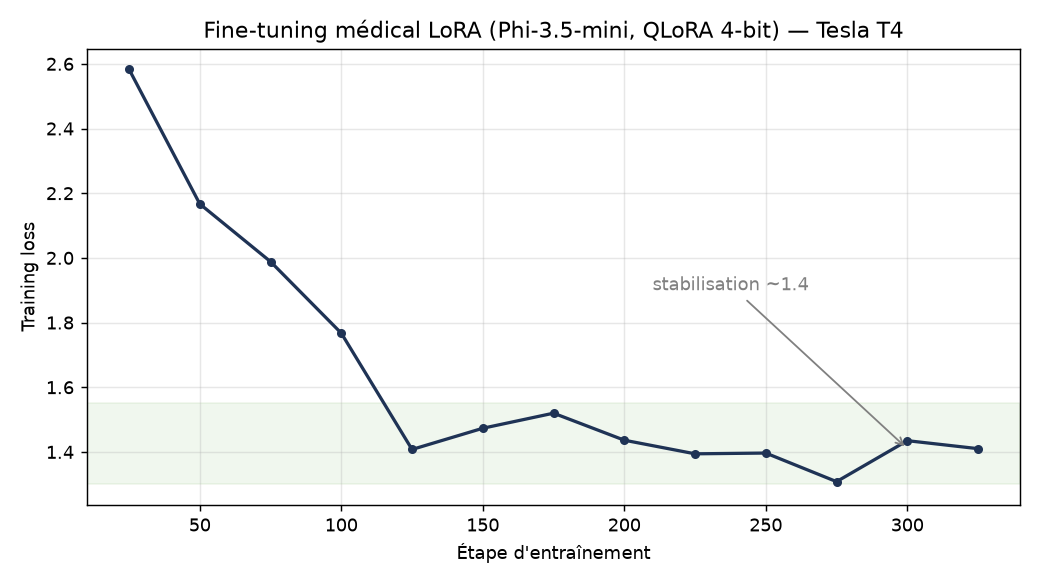
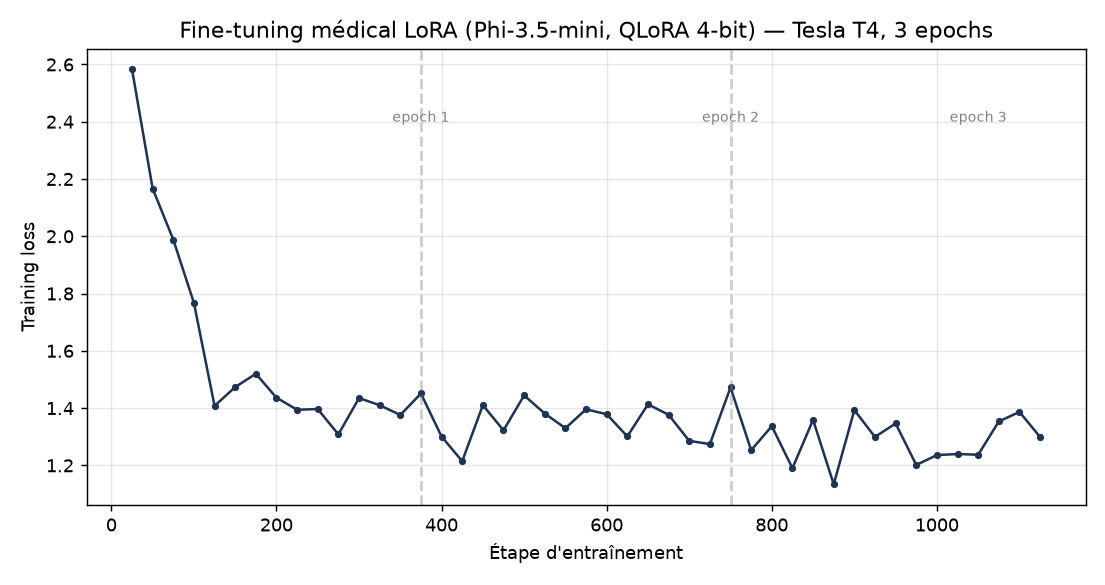
ia: résultats finaux du fine-tuning médical (loss 2.58→1.30, runtime ~3h, test conversationnel)

diff --git a/rendu/ia/evidence/medical_training_loss.md b/rendu/ia/evidence/medical_training_loss.md
@@ -1,35 +1,48 @@
 # Métriques d'entraînement — fine-tuning médical LoRA (Colab T4)
 
-Run exécuté sur Google Colab (GPU Tesla T4) à partir de `medical_finetuning_colab.ipynb`.
+Run **complet** exécuté sur Google Colab (GPU Tesla T4) à partir de `medical_finetuning_colab.ipynb`.
 
 - **Modèle de base :** microsoft/Phi-3.5-mini-instruct (4-bit NF4)
 - **Méthode :** QLoRA, r=16, alpha=32, dropout 0.05
 - **Dataset :** ruslanmv/ai-medical-chatbot (256 916 conversations, 3 000 échantillonnées)
-- **Config du run :** 3 epochs, batch 2 × grad. accum. 4 (batch effectif 8), lr=2e-4,
-  optim `paged_adamw_8bit`, `max_length=512`, gradient checkpointing
-- **Total de pas :** 1 125 (375 pas/epoch) · ~9,5 s/pas sur T4
+- **Config :** 3 epochs, batch 2 × grad. accum. 4 (batch effectif 8), lr=2e-4, `paged_adamw_8bit`,
+  `max_length=512`, gradient checkpointing
+
+## Métriques finales
+
+| Métrique | Valeur |
+|---|---|
+| Épochs | 3 |
+| Étapes | 1 125 |
+| `train_runtime` | 10 994,68 s (~3 h 03) |
+| `train_samples_per_second` | 0,819 |
+| Loss moyenne (`train_loss`) | 1,415 |
+| Loss initiale (étape 25) | 2,583 |
+| Loss finale (étape 1125) | 1,299 |
 
 ## Courbe de loss
 
 ![Courbe de loss du fine-tuning médical](medical_loss_curve.png)
 
-Valeurs journalisées toutes les 25 étapes :
+La loss chute fortement pendant la première epoch (2,58 → ~1,4) puis se stabilise et descend
+lentement vers ~1,3 sur les epochs 2 et 3. L'adaptateur LoRA a convergé proprement sur le corpus
+médical.
 
-| Étape | Loss | Étape | Loss |
-|---|---|---|---|
-| 25  | 2.583 | 200 | 1.436 |
-| 50  | 2.167 | 225 | 1.394 |
-| 75  | 1.988 | 250 | 1.397 |
-| 100 | 1.767 | 275 | 1.308 |
-| 125 | 1.408 | 300 | 1.435 |
-| 150 | 1.473 | 325 | 1.410 |
-| 175 | 1.520 |     |       |
+## Test conversationnel (section 9 du notebook)
 
-La loss chute nettement sur la première epoch (2.58 → ~1.4), puis se stabilise autour de 1.3–1.5 :
-l'adaptateur LoRA a convergé sur le corpus médical. Débit d'entraînement mesuré : ~9.7 s/pas sur T4.
+Réponses réelles du modèle fine-tuné après entraînement :
 
-Le comportement conversationnel après adaptation est testé en section 9 du notebook (questions
-médicales types). Modèle **expérimental** : non destiné à la production.
+> **Q : What are common symptoms of dehydration?**
+> A : *Dehydration is a condition that occurs when your body loses more water than it takes in. It
+> can happen due to excessive sweating, vomiting or diarrhea… signs you may have become dehydrated:
+> 1) Thirsty feeling… 2) Dry skin, especially around fingers/nails, dry lips…*
+
+> **Q : Is a persistent headache with fever something to worry about?**
+> A : *Hello. I have gone through your query and can understand that you are worried because of the
+> symptoms, which is quite normal in such cases…*
+
+Le modèle adopte bien le registre d'un assistant médical conversationnel. Il reste **expérimental**
+et n'est **pas** destiné à un usage clinique ou à la production.
 
 > Le notebook versionné propose par défaut une config plus légère (800 échantillons, 1 epoch) pour
 > un run reproductible en moins de 15 minutes sur T4.

diff --git a/rendu/ia/evaluation_phi35_financial.md b/rendu/ia/evaluation_phi35_financial.md
@@ -106,13 +106,15 @@ Notebook : `medical_finetuning_colab.ipynb` (prêt pour Google Colab, GPU T4/A10
 | Méthode | QLoRA 4-bit, r=16, alpha=32 |
 | Nombre d'échantillons | 3 000 |
 | Epochs | 3 (1 125 pas) |
-| Loss (début → stabilisation) | 2.583 → ~1.44 |
-| Débit d'entraînement | ~9.7 s/pas (Tesla T4) |
+| Loss initiale → finale | 2.583 → 1.299 |
+| Loss moyenne (`train_loss`) | 1.415 |
+| Durée (`train_runtime`) | 10 994,68 s (~3 h 03) sur Tesla T4 |
 | **Lien Colab** | https://colab.research.google.com/drive/1yqyraeYINoujZjLrk9KR6JCj6zEMl2VH |
 
-La loss chute nettement sur la première epoch puis se stabilise autour de 1.4–1.5, signe d'une
-convergence propre de l'adaptateur. Courbe complète et points intermédiaires :
-`evidence/medical_training_loss.md`.
+Run complet (3 epochs) : la loss chute fortement sur la première epoch puis converge vers ~1.3.
+Le modèle fine-tuné répond correctement à des questions médicales (test conversationnel, section 9
+du notebook). Courbe et détails : `evidence/medical_training_loss.md` et
+`evidence/medical_loss_curve.png`.
 
 ### 2.3 Cadre et avertissements
 